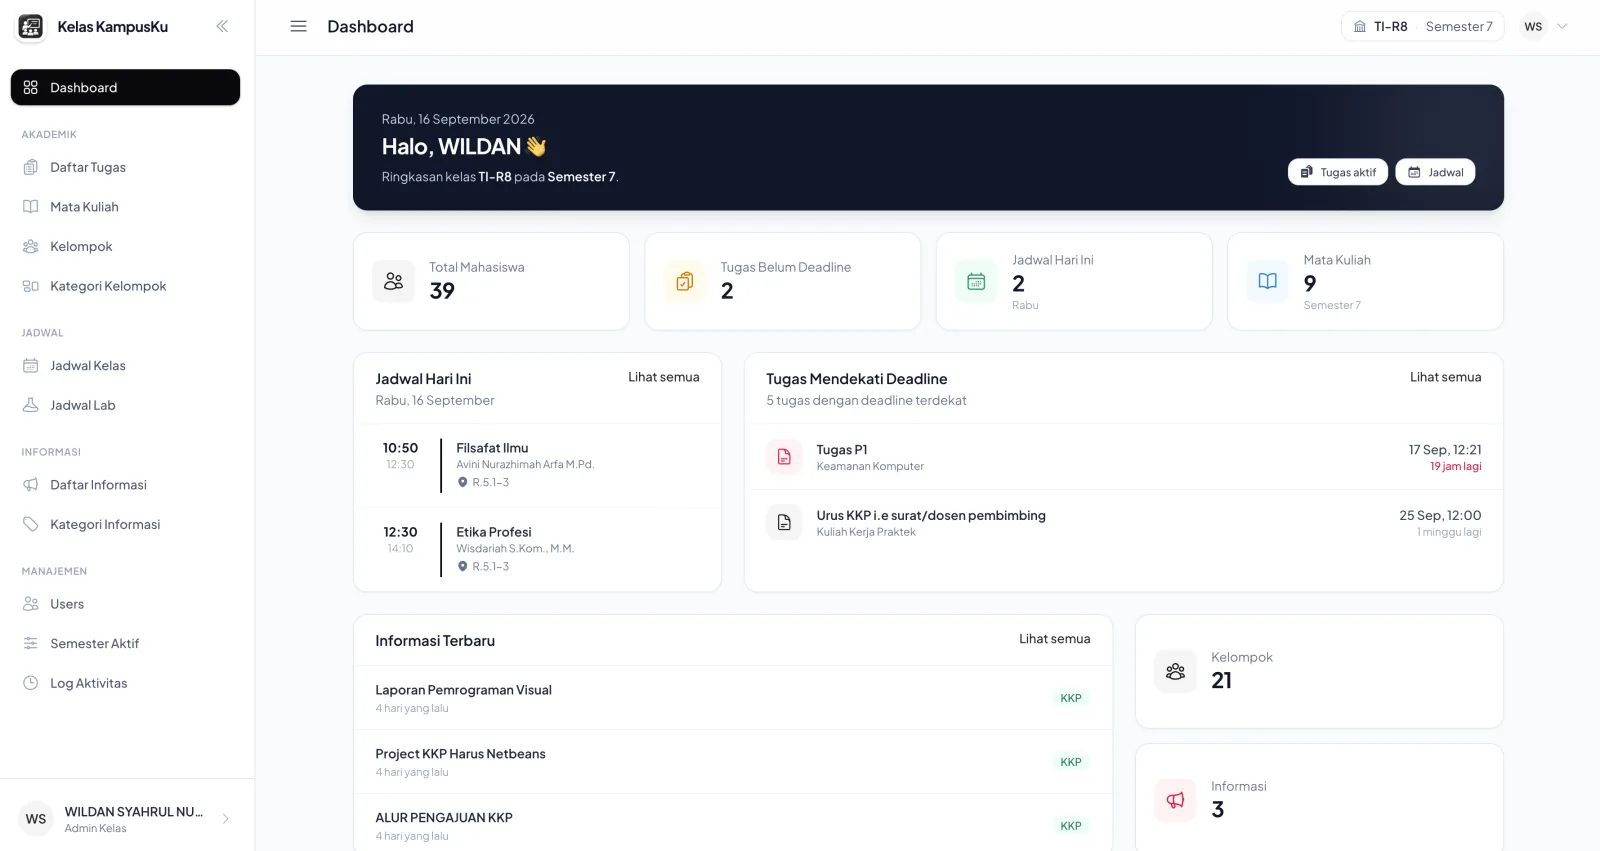
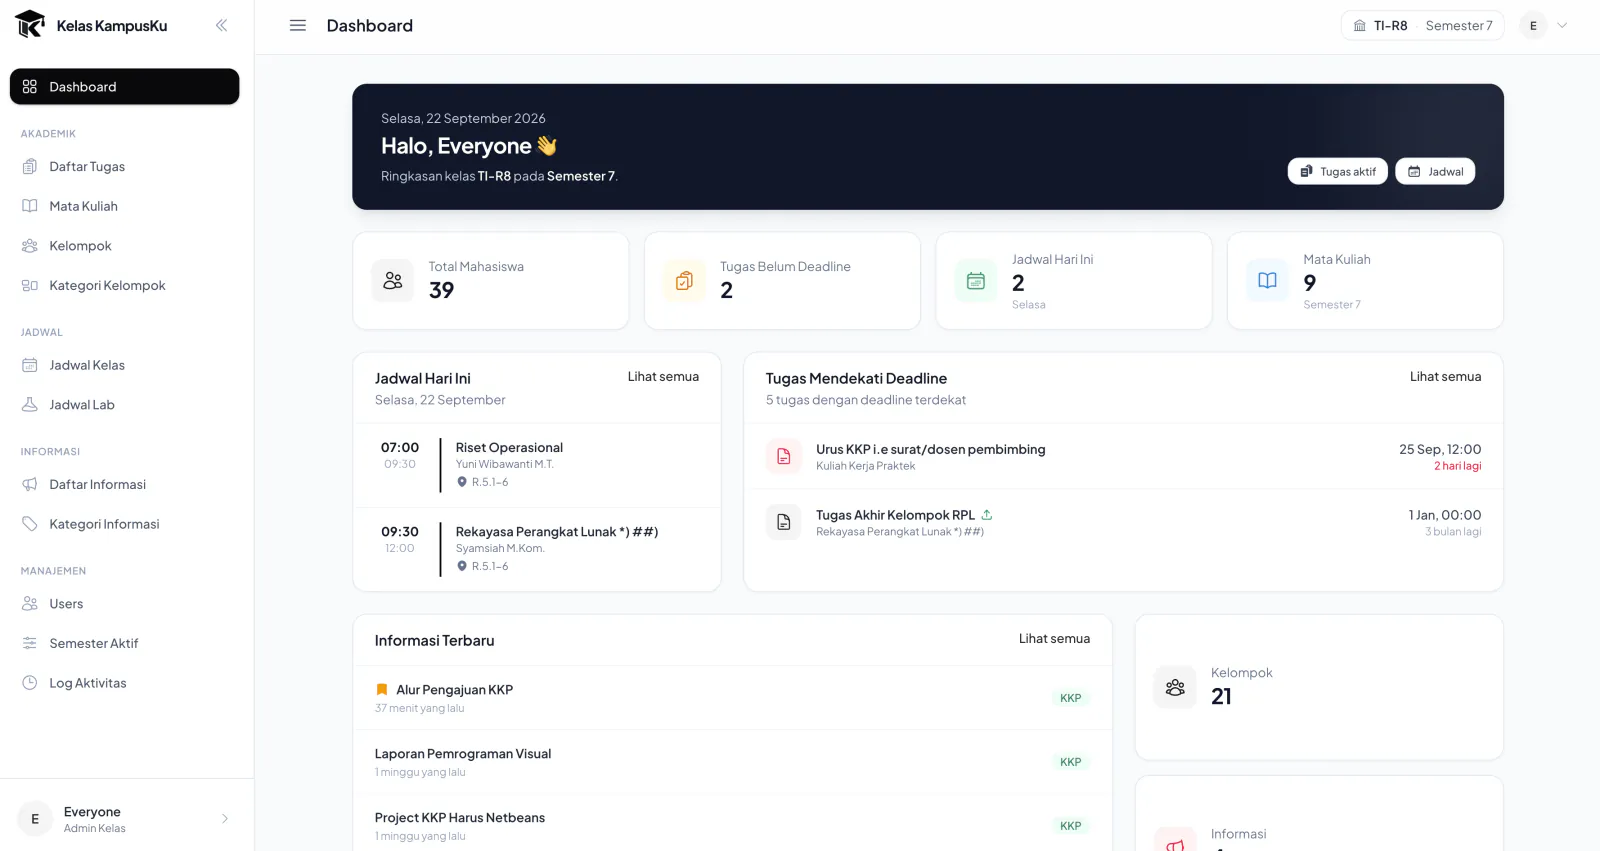
Landing page: screenshot dashboard terbaru (WebP 1600px, 43 KB) dengan versi mtime pada URL
Hosting mengirim cache-control max-age seminggu untuk gambar, sehingga gambar
yang diganti dengan nama sama tidak pernah diambil ulang browser; URL-nya kini
membawa ?v=filemtime seperti favicon.

diff --git a/resources/views/landing.blade.php b/resources/views/landing.blade.php
@@ -177,7 +177,8 @@
                 <figure class="mx-auto mt-10 max-w-5xl">
                     <div
                         class="overflow-hidden rounded-2xl border border-[var(--garis)] bg-white p-1.5 shadow-2xl shadow-[#16243f]/15 sm:p-2">
-                        <img src="{{ asset('images/dashboard.webp') }}" width="1600" height="851" fetchpriority="high"
+                        {{-- mtime as version: the hosting caches images for a week, so a replaced screenshot would otherwise stay stale. --}}
+                        <img src="{{ asset('images/dashboard.webp') }}?v={{ filemtime(public_path('images/dashboard.webp')) }}" width="1600" height="851" fetchpriority="high"
                             decoding="async"
                             alt="Dashboard kelas: jadwal hari ini, tugas mendekati deadline, dan informasi terbaru"
                             class="w-full rounded-xl">
